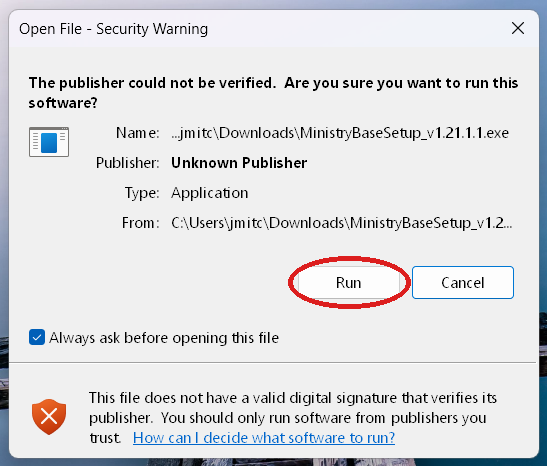
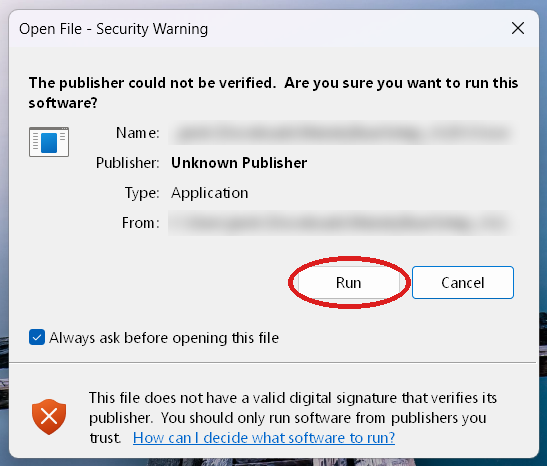
Updating guide for the new installer; blur file path and username in the security-warning picture.

Changed region(s): [[0.3108, 0.4506, 0.9324, 0.5107], [0.3108, 0.2704, 0.9324, 0.3305]]

diff --git a/UPDATING.md b/UPDATING.md
@@ -4,12 +4,14 @@
 
 ## How to update
 
-1. **Download the new installer** from the [Releases page](https://github.com/jmitchell238/MinistryBase-releases/releases). The file is named something like `MinistryBaseSetup_v1.0.1.exe`.
-2. **Run the installer.** Double-click it and click through the prompts, just like the first time. You do not need to uninstall the old version first. The installer upgrades it in place.
-3. **Open MinistryBase.** A "What's New" window may appear to show what changed.
-4. **Check the version.** Open **Settings** (the gear icon at the bottom of the sidebar), then **About**, to see the version number.
+1. **Close MinistryBase** if it is open.
+2. **Download the new installer** from the [Releases page](https://github.com/jmitchell238/MinistryBase-releases/releases). The file is named like `MinistryBaseSetup_v1.22.2.1.exe`.
+3. **Run the installer.** Double-click it. Windows shows the same security warning as the first time: click **Run** (or **More info**, then **Run anyway**), then **Yes**. See [Windows will warn you first](README.md#windows-will-warn-you-first).
+4. **Update MinistryBase:** the first screen says **Update MinistryBase**. Tick **I accept the License Agreement** and click **Install**. You do not need to uninstall the old version first; the installer updates it in place, in the same folder.
+5. **Finish:** leave **Launch MinistryBase** ticked and click **Finish**. A "What's New" window may appear to show what changed.
+6. **Check the version** if you like: open **Settings** (the gear icon at the bottom of the sidebar), then **About**.
 
-If Windows shows "Windows protected your PC," click **More info**, then **Run anyway**. The installer is not yet code-signed.
+**Updating from 1.21.1 or earlier:** those versions installed to `C:\Program Files (x86)\MinistryBase`. The new installer moves MinistryBase to `C:\Program Files\MinistryBase` and removes the old copy for you. If it says MinistryBase or `ministrybase_mcp.exe` is still running, close it (and any Claude app using MinistryBase) and click **Retry**.
 
 ## Your data is safe
 
